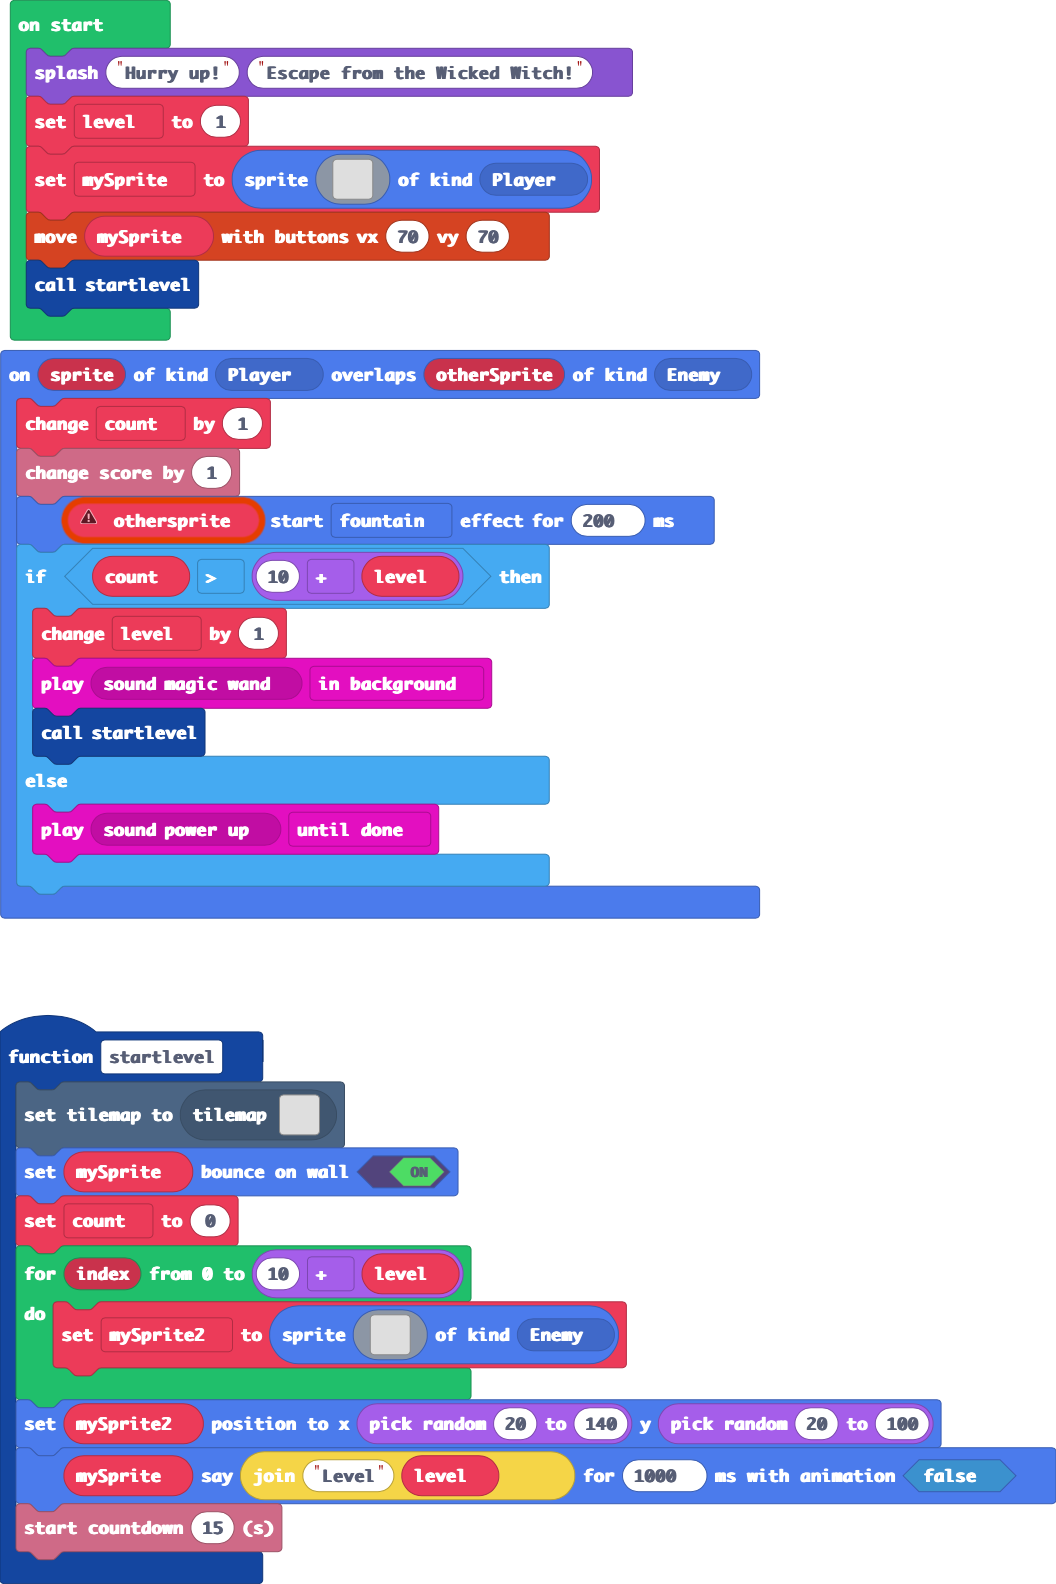
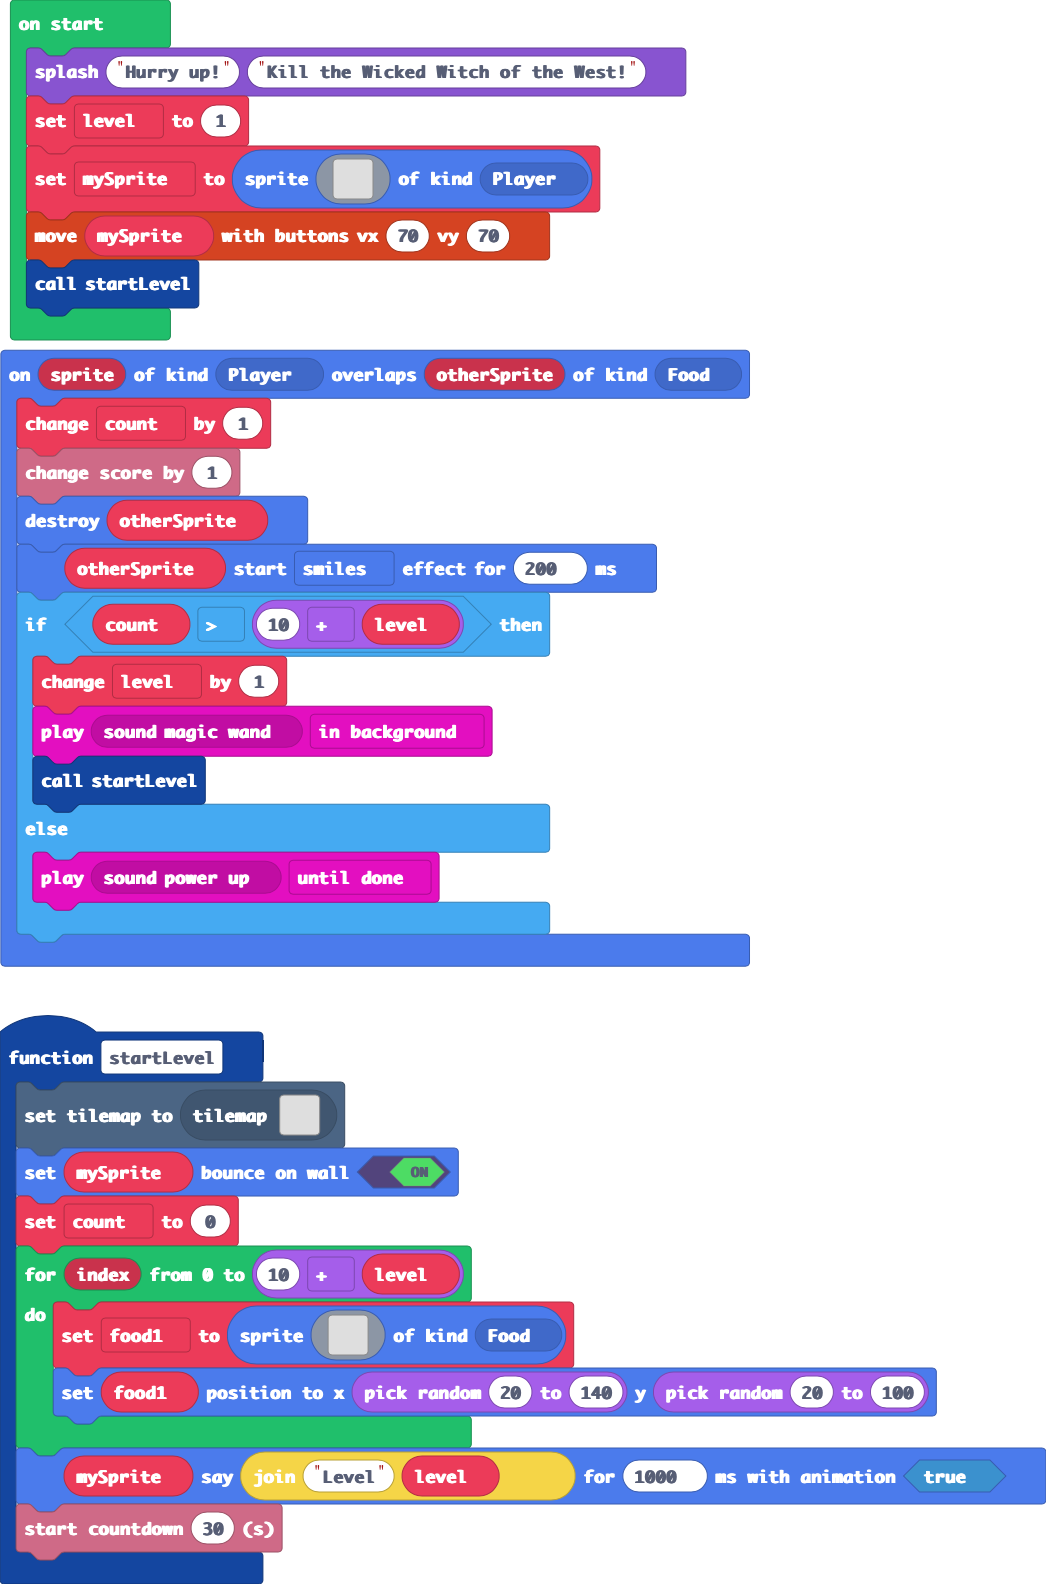
Update main.blocks, main.ts, tilemap.g.jres, tilemap.g.ts

diff --git a/main.ts b/main.ts
@@ -1,9 +1,22 @@
-function startlevel () {
+sprites.onOverlap(SpriteKind.Player, SpriteKind.Food, function (sprite, otherSprite) {
+    count += 1
+    info.changeScoreBy(1)
+    sprites.destroy(otherSprite)
+    otherSprite.startEffect(effects.smiles, 200)
+    if (count > 10 + level) {
+        level += 1
+        music.play(music.melodyPlayable(music.magicWand), music.PlaybackMode.InBackground)
+        startLevel()
+    } else {
+        music.play(music.melodyPlayable(music.powerUp), music.PlaybackMode.UntilDone)
+    }
+})
+function startLevel () {
     tiles.setCurrentTilemap(tilemap`level4`)
     mySprite.setBounceOnWall(true)
     count = 0
     for (let index = 0; index <= 10 + level; index++) {
-        mySprite2 = sprites.create(img`
+        food1 = sprites.create(img`
             . . . . . . f f f . . . . . . . 
             . . . . . f f f f f f . . . . . 
             . . . f f f f f f f f f . . . . 
@@ -20,30 +33,17 @@ function startlevel () {
             . 7 7 f f f f f f f f . 7 e . . 
             . . . f f f f f f f f f . e . . 
             . . f f f f f f f f f f f . . . 
-            `, SpriteKind.Enemy)
+            `, SpriteKind.Food)
+        food1.setPosition(randint(20, 140), randint(20, 100))
     }
-    mySprite2.setPosition(randint(20, 140), randint(20, 100))
-    mySprite.sayText("Level" + level, 1000, false)
-    info.startCountdown(15)
+    mySprite.sayText("Level" + level, 1000, true)
+    info.startCountdown(30)
 }
-sprites.onOverlap(SpriteKind.Player, SpriteKind.Enemy, function (sprite, otherSprite) {
-    let othersprite: Sprite = null
-    count += 1
-    info.changeScoreBy(1)
-    othersprite.startEffect(effects.fountain, 200)
-    if (count > 10 + level) {
-        level += 1
-        music.play(music.melodyPlayable(music.magicWand), music.PlaybackMode.InBackground)
-        startlevel()
-    } else {
-        music.play(music.melodyPlayable(music.powerUp), music.PlaybackMode.UntilDone)
-    }
-})
-let mySprite2: Sprite = null
+let food1: Sprite = null
 let count = 0
 let mySprite: Sprite = null
 let level = 0
-game.splash("Hurry up!", "Escape from the Wicked Witch!")
+game.splash("Hurry up!", "Kill the Wicked Witch of the West!")
 level = 1
 mySprite = sprites.create(img`
     . . . . . . . . . . . . . . . . 
@@ -64,4 +64,4 @@ mySprite = sprites.create(img`
     . . . . 2 2 . . . 2 2 . . . . . 
     `, SpriteKind.Player)
 controller.moveSprite(mySprite, 70, 70)
-startlevel()
+startLevel()

diff --git a/tilemap.g.ts b/tilemap.g.ts
@@ -100,6 +100,25 @@ namespace myTiles {
 . . . . . . . . . . . . . . . . 
 . . . . . . . . . . . . . . . . 
 `, [myTiles.transparency16], TileScale.Sixteen);
+            case "level6":
+            case "level6":return tiles.createTilemap(hex`1000100000000000000000000000000000000000000000000000000000000000000000000000000000000000000000000000000000000000000000000000000000000000000000000000000000000000000000000000000000000000000000000000000000000000000000000000000000000000000000000000000000000000000000000000000000000000000000000000000000000000000000000000000000000000000000000000000000000000000000000000000000000000000000000000000000000000000000000000000000000000000000000000000000000000000000000000000000000000000000000000000000000000000000000000000000000000`, img`
+. . . . . . . . . . . . . . . . 
+. . . . . . . . . . . . . . . . 
+. . . . . . . . . . . . . . . . 
+. . . . . . . . . . . . . . . . 
+. . . . . . . . . . . . . . . . 
+. . . . . . . . . . . . . . . . 
+. . . . . . . . . . . . . . . . 
+. . . . . . . . . . . . . . . . 
+. . . . . . . . . . . . . . . . 
+. . . . . . . . . . . . . . . . 
+. . . . . . . . . . . . . . . . 
+. . . . . . . . . . . . . . . . 
+. . . . . . . . . . . . . . . . 
+. . . . . . . . . . . . . . . . 
+. . . . . . . . . . . . . . . . 
+. . . . . . . . . . . . . . . . 
+`, [myTiles.transparency16], TileScale.Sixteen);
         }
         return null;
     })
